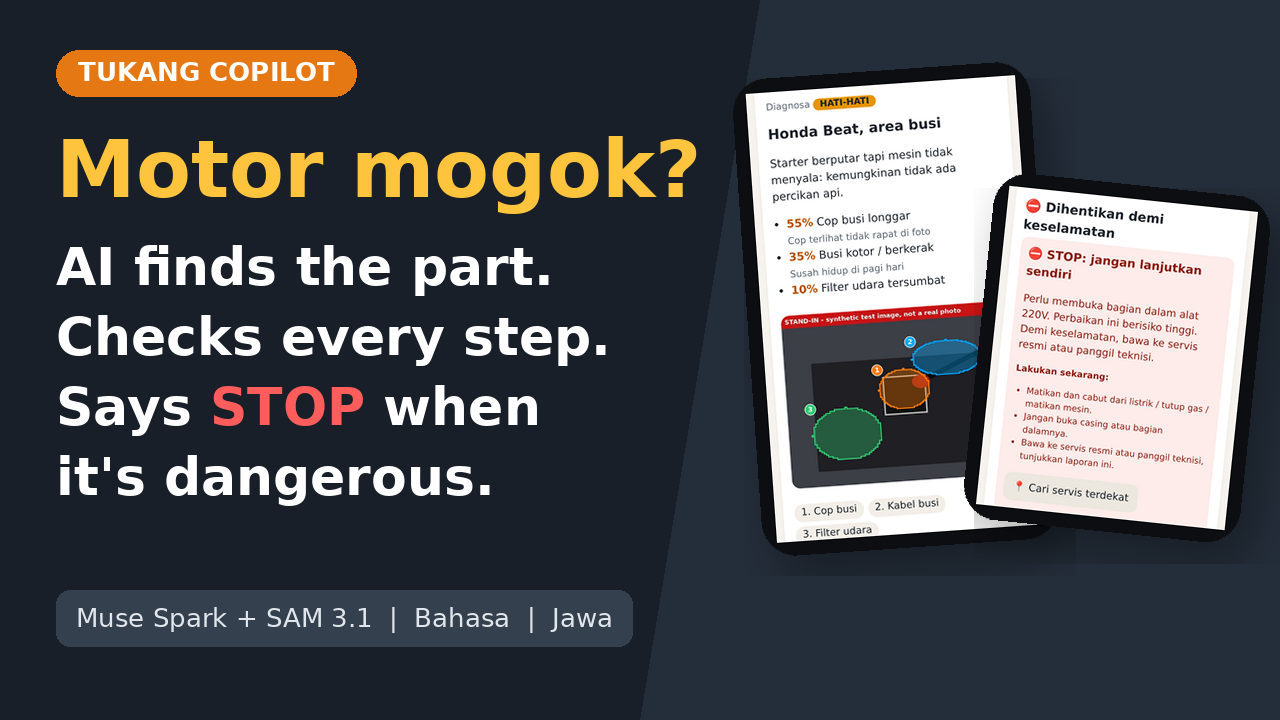
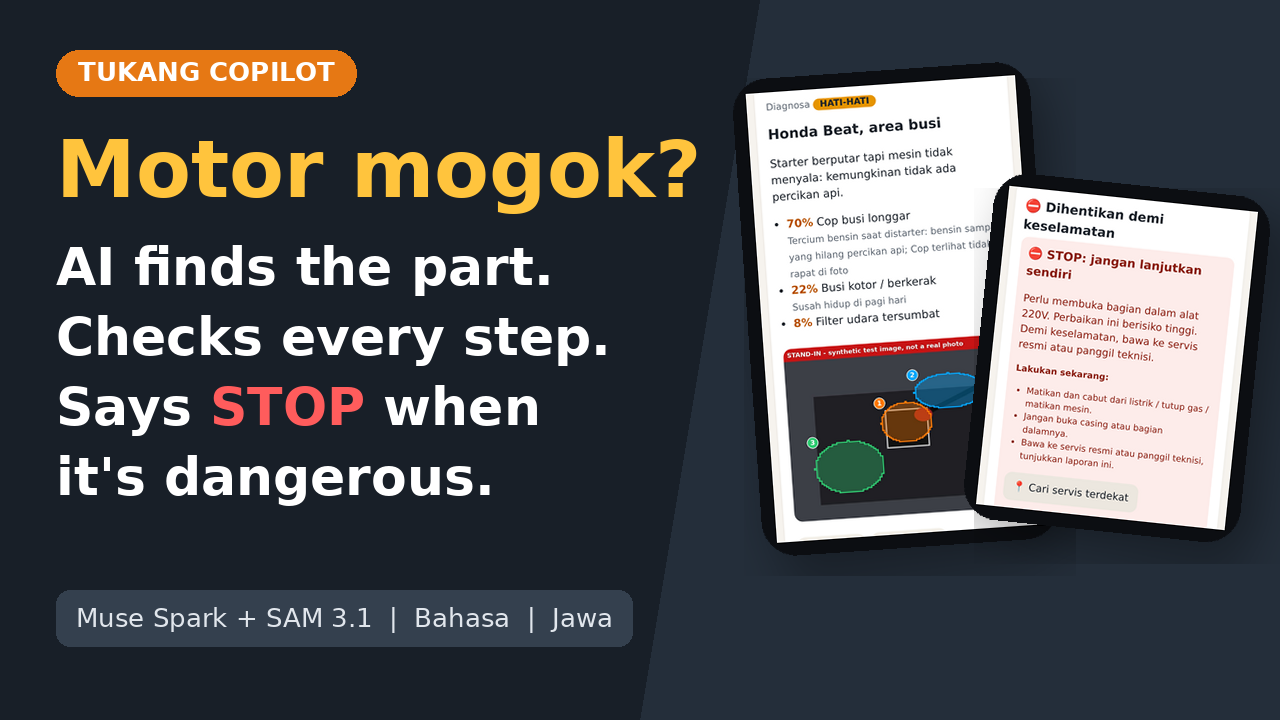
Demo captions: 139 million motorbikes (BPS 2024), no all-caps words; video, X clip, diagrams and thumbnail re-made

Changed region(s): [[0.5938, 0.3056, 0.7812, 0.7639]]

diff --git a/scripts/make_demo_assets.py b/scripts/make_demo_assets.py
@@ -1,4 +1,4 @@
-"""Demo assets from the REAL app running in demo (mock) mode: screenshots, captions, voice-over, a 2-3 min video.
+"""Demo assets from the real app running in demo (mock) mode: screenshots, captions, voice-over, a 2-3 min video.
 
     python scripts/make_demo_assets.py shots     # Playwright drives the phone UI -> docs/demo/screenshots/*.png (+ wa)
     python scripts/make_demo_assets.py wa        # only the WhatsApp simulator shots -> docs/demo/screenshots/30_whatsapp_*.png
@@ -8,7 +8,7 @@
     python scripts/make_demo_assets.py all
 
 Everything shown is the app built during the hackathon, in demo mode, with labelled stand-in photos.
-The video says so on screen. Malik's real-phone video (docs/DEMO_SCRIPT.md) replaces it when recorded.
+The video says so on screen. My own real-phone video (docs/DEMO_SCRIPT.md) replaces it once I record it.
 Chromium: PLAYWRIGHT_CHROMIUM, system chromium, or `python -m playwright install chromium`.
 """
 from __future__ import annotations
@@ -50,7 +50,7 @@ def font(size: int, bold: bool = True) -> ImageFont.FreeTypeFont | ImageFont.Ima
     return ImageFont.load_default()
 
 
-# ---------------------------------------------------------------- scenes (the script)
+# --- scenes (the script)
 @dataclass
 class Scene:
     key: str
@@ -64,11 +64,11 @@ WA_LABELS = ["Cause on your photo", "Tap a step button", "Gas leak: red stop"]
 HACKATHON_LINE = "Built during the Meta AI Developer Hackathon, Oct 26 to Nov 4, 2026 (first commit Oct 30)"
 
 SCENES: list[Scene] = [
-    # v1.25: 3-second hook title card (silent), then the story. Captions of the voice-over are burned in (English).
+    # 3-second silent title card, then the story. The voice-over captions are burned in (English).
     Scene("title", "title:Fix it yourself, safely. In Javanese.|" + HACKATHON_LINE,
           "Tukang Copilot · Muse Spark + SAM 3.1 + Muse Image", "", 3),
     Scene("hook", "title:Motor mogok. Bengkelnya tutup.|Bike won't start. The repair shop is closed.",
-          "Indonesia runs on ~130 million motorbikes, water pumps and rice cookers.",
+          "139 million motorbikes in Indonesia (BPS 2024), plus water pumps.",
           "In Indonesia, a small fault on a motorbike or a water pump can cost a day's wage. "
           "Repair videos can't see your problem, and they're not in your language.", 7),
     Scene("intro", "01_home", "Photo + voice in Bahasa, Javanese or English. No photo? ▶ 1-tap demo.",
@@ -76,11 +76,11 @@ SCENES: list[Scene] = [
     Scene("progress", "02_progress", "Results stream in as each Meta model finishes: what it saw, SAM 3.1's outlines, the likely cause.",
           "You watch the agent work: as each stage finishes, its result appears. What Muse Spark saw, "
           "the parts SAM 3.1 outlined, then the likely cause.", 6),
-    Scene("question", "03_question", "Unsure? It asks ONE question instead of guessing.",
+    Scene("question", "03_question", "Unsure? It asks one question instead of guessing.",
           "When the evidence is ambiguous, it asks one short question instead of guessing.", 4),
     Scene("diagnosis", "04_diagnosis", "Likely causes with confidence, safety level, tools, time, cost vs bengkel price.",
           "Then the diagnosis: likely causes with confidence, a safety level, tools, time, and the parts cost against the repair-shop price.", 6),
-    Scene("parts", "05_parts", "SAM 3.1 masks the real parts on YOUR photo, numbered.",
+    Scene("parts", "05_parts", "SAM 3.1 masks the real parts on your own photo, numbered.",
           "The parts are masked and numbered on your own photo by SAM 3.1, not a generic diagram.", 5),
     Scene("preflight", "15_preflight", "Safety first: the steps stay locked until every check is ticked.",
           "Before step one, a short safety checklist. The steps stay locked until you tick every item.", 5),
@@ -100,15 +100,13 @@ SCENES: list[Scene] = [
           "When a photo can't show a step, Muse Image draws a diagram and Muse Spark checks it. This one is a demo stand-in.", 5),
     Scene("agent", "23_agent_log", "“What the AI did”: every decision, the model that made it, and why it asked.",
           "Every decision is on screen: what it saw, why it asked, each photo check, each re-plan, and which Meta model did it.", 6),
-    # v1.25: "jump" and "pdf" scenes dropped to make room for the title card and the Muse Image diagram (cut stays under 3:00)
     Scene("handoff", "18_handoff", "Hand-off to a bengkel: WhatsApp summary, nearest workshop, PDF with a mechanic brief.",
           "And when it's a job for a pro, one tap hands it off: a WhatsApp summary of what was found and tried, "
           "a search for the nearest bengkel, and a PDF with a brief for the mechanic.", 8),
-    Scene("rice", "11_rice_stop", "RED STOP: opening 220 V internals → take it to a service centre.",
+    Scene("rice", "11_rice_stop", "Red stop: opening 220 V internals → take it to a service centre.",
           "It also knows when to say no. A rice cooker that won't heat would mean opening 220 volt internals, "
           "so the safety gate stops the guidance.", 7),
-    # v1.22: the stop-PDF scene was dropped to make room for the agent log and keep the cut under 3:00
-    # v1.27: the "share" and "lang" scenes were dropped for the WhatsApp scene (Javanese is now shown in WhatsApp; cut stays under 3:00)
+    # no share, language or stop-PDF scenes: the cut has to stay under 3:00, and WhatsApp shows the Javanese
     Scene("wa", "wa:30_whatsapp_jv_diagnosis,30_whatsapp_jv_steps,30_whatsapp_jv_redstop",
           "Also works in WhatsApp, in Basa Jawa. Same agent, same safety gate.",
           "It also works in WhatsApp, in Javanese. Send a photo, and the same agent replies with the marked photo, "
@@ -125,7 +123,7 @@ SCENES: list[Scene] = [
 ]
 
 
-# ---------------------------------------------------------------- screenshots
+# --- screenshots
 def _server() -> tuple[str, Any]:
     os.environ.setdefault("MOCK", "1")
     os.environ.setdefault("NARRATION_VOICE", "0")
@@ -205,7 +203,7 @@ def shots() -> None:
         pg.evaluate("document.activeElement && document.activeElement.blur(); window.scrollTo(0, 0)")
         snap("01_home")
         pg.click("#goBtn"); pg.wait_for_selector("#progress:not(.hidden)")
-        # v1.23: partial results stream in (demo pacing MOCK_PACE holds each finished stage on screen)
+        # partial results stream in (MOCK_PACE holds each finished stage on screen)
         pg.wait_for_selector("#lf-segment img", timeout=30000)
         pg.wait_for_function("document.querySelector('#lf-segment img').naturalWidth > 0", timeout=10000)
         pg.evaluate("document.querySelector('#stageList').scrollIntoView({block: 'start'}); window.scrollBy(0, -110)")
@@ -226,7 +224,7 @@ def shots() -> None:
         pg.wait_for_function("!document.querySelector('#checkResult').textContent.includes('…')", timeout=20000)
         pg.locator("#checkResult").scroll_into_view_if_needed(); snap("08_check_pass")
         pg.wait_for_function("document.querySelector('#stepNo').textContent.trim() === '2'", timeout=10000)  # auto-advanced
-        pg.locator("#agent .agGo", has_text="Langkah 1 dicek").first.click()          # v1.23: tap a log line → back to that step
+        pg.locator("#agent .agGo", has_text="Langkah 1 dicek").first.click()          # tap a log line → back to that step
         pg.wait_for_selector("#stepCard.flash"); pg.wait_for_timeout(900)
         pg.evaluate("window.scrollBy(0, -40)"); snap("24_agent_jump")
         pg.check("#handsFree"); pg.wait_for_selector("#voiceBar:not(.hidden)", timeout=5000); pg.wait_for_timeout(600)
@@ -235,9 +233,9 @@ def shots() -> None:
         pg.fill("#stuckText", "Sudah dicoba, mesin tetap tidak nyala."); pg.click("#stuckBtn")
         pg.wait_for_function("document.querySelector('#stuckMsg').textContent.length > 3 && !document.querySelector('#stuckBtn').disabled",
                              timeout=20000); pg.wait_for_timeout(600)
-        pg.wait_for_selector("#planBanner:not(.hidden)"); pg.evaluate("window.scrollTo(0, 0)"); snap("09_replan")  # v1.24: re-plan banner + tried cause
+        pg.wait_for_selector("#planBanner:not(.hidden)"); pg.evaluate("window.scrollTo(0, 0)"); snap("09_replan")  # re-plan banner + tried cause
         pg.evaluate("document.querySelector('#agent').scrollIntoView({block: 'start'}); window.scrollBy(0, -70)"); snap("23_agent_log")
-        # v1.25: the plan-2 step that needs a drawing (Muse Image in live mode; a labelled stand-in drawing in demo mode)
+        # the plan-2 step that needs a drawing (Muse Image in live mode; a labelled stand-in drawing in demo mode)
         tick_preflight()
         for _ in range(6):
             if "diagram" in (pg.get_attribute("#stepImg", "src") or "") and pg.is_visible("#stepImg"):
@@ -275,7 +273,7 @@ def shots() -> None:
         # safety stop with PDF + hand-off
         go_sample("rice"); pg.wait_for_selector("#stopBox:not(.hidden)", timeout=30000)
         pg.wait_for_selector("#stopHandoff:not(.hidden)", timeout=10000)
-        pg.evaluate("window.scrollTo(0, 0)"); snap("11_rice_stop")  # v1.24: the STOP card sits under the "Stopped for your safety" heading
+        pg.evaluate("window.scrollTo(0, 0)"); snap("11_rice_stop")  # the STOP card sits under the "Stopped for your safety" heading
         pg.evaluate("document.querySelector('#stopHandoff').scrollIntoView({block: 'end'}); window.scrollBy(0, 40)"); snap("22_stop_handoff")
         sid = pg.evaluate("S && S.id")
         pdf = Path(tempfile.mkdtemp()) / "stop.pdf"
@@ -291,11 +289,11 @@ def shots() -> None:
         settings.use_open_weights, settings.baseten_api_key = True, "stand-in-not-a-key"
         pg.goto(base + "/"); pg.select_option("#lang", "en"); pg.wait_for_selector("#owBadge:not(.hidden)", timeout=5000); snap("21_open_weights")
         settings.use_open_weights, settings.baseten_api_key = False, ""
-        # v1.24 recorded demo: what a judge sees when the server sleeps (forced here with ?replay=1)
+        # recorded demo: what a visitor sees when the server sleeps (forced here with ?replay=1)
         pg.goto(base + "/?replay=1"); pg.select_option("#lang", "en"); pg.click("#demoBtn")
         pg.wait_for_selector("#question:not(.hidden)", timeout=20000); pg.click('#quickAns button[data-q="qNo"]')
         pg.wait_for_selector("#result:not(.hidden)", timeout=20000); pg.evaluate("window.scrollTo(0, 0)"); snap("27_recorded_demo")
-        # v1.25 laptop view: phone frame + side panel (QR code, 1-tap demo, language switch)
+        # laptop view: phone frame + side panel (QR code, 1-tap demo, language switch)
         lap = b.new_page(viewport={"width": 1280, "height": 800})
         lap.goto(base + "/"); lap.select_option("#lang", "en"); lap.wait_for_selector("#qrBox svg", timeout=5000); lap.wait_for_timeout(400)
         lap.screenshot(path=str(SHOTS / "29_laptop.png")); print("shot 29_laptop", flush=True)
@@ -304,14 +302,14 @@ def shots() -> None:
     print("screenshots ->", SHOTS, sorted(p.name for p in SHOTS.glob("*.png")))
 
 
-# ---------------------------------------------------------------- WhatsApp simulator (v1.27)
+# --- WhatsApp simulator
 WA_SHOTS = ["30_whatsapp_jv_diagnosis", "30_whatsapp_jv_steps", "30_whatsapp_jv_redstop", "30_whatsapp_en_check", "30_whatsapp_en_pdf"]
 
 
 def wa_shots() -> None:
     """The WhatsApp simulator page (/wa, demo mode): the same handler as the real Cloud API webhook, so these show what a
     WhatsApp chat gets. Javanese: photo in, marked photo + diagnosis, step buttons, red stop; English: a step check and
-    the PDF report. Not a real WhatsApp number (that waits on Malik's Meta setup, docs/WHATSAPP.md)."""
+    the PDF report. Not a real WhatsApp number (that waits on my Meta setup, docs/WHATSAPP.md)."""
     from playwright.sync_api import sync_playwright
 
     SHOTS.mkdir(parents=True, exist_ok=True)
@@ -359,7 +357,7 @@ def wa_shots() -> None:
     srv.should_exit = True
 
 
-# ---------------------------------------------------------------- architecture diagram
+# --- architecture diagram
 def diagram() -> None:
     im = Image.new("RGB", (W, H), BG); d = ImageDraw.Draw(im)
     d.text((80, 50), "Tukang Copilot: one agent loop, five Meta models", fill=INK, font=font(52))
@@ -372,7 +370,7 @@ def diagram() -> None:
         ("Diagnose", "Muse Spark 1.3\nor Muse Spark Open*", (1440, 230), (255, 228, 204)),
         ("Safety gate", "3 layers in code\nred = STOP + pro", (1440, 560), (255, 210, 205)),
         ("Plan", "Muse Spark → steps\nwith expected state", (1100, 560), (255, 228, 204)),
-        ("Illustrate", "Muse Image edit\nof YOUR photo", (760, 560), (225, 214, 245)),
+        ("Illustrate", "Muse Image edit\nof your photo", (760, 560), (225, 214, 245)),
         ("Verify step", "new photo → Spark\n✓ pass / ⚠ correction", (420, 560), (210, 240, 220)),
         ("Report", "PDF · bengkel\nhand-off · garage", (80, 560), (230, 230, 230)),
     ]
@@ -403,7 +401,7 @@ def diagram() -> None:
     print("diagram ->", ARCH)
 
 
-# ---------------------------------------------------------------- voice-over
+# --- voice-over
 def voice() -> None:
     """edge-tts (Microsoft neural voices, free, needs internet). Set EDGE_TTS_PROXY if the network needs a proxy."""
     import edge_tts
@@ -434,7 +432,7 @@ def _dur(p: Path) -> float:
     return float(json.loads(r.stdout)["format"]["duration"])
 
 
-# ---------------------------------------------------------------- frames + video
+# --- frames + video
 def _wrap(d: ImageDraw.ImageDraw, text: str, f: Any, width: int) -> list[str]:
     lines: list[str] = []
     for para in text.split("\n"):
@@ -470,7 +468,7 @@ def _frame(sc: Scene, vertical: bool = False, subtitle: str = "") -> Image.Image
             im.paste(a.resize((aw, int(a.height * aw / a.width)), Image.Resampling.LANCZOS), ((fw - aw) // 2, 0))
         else:
             im.paste(a.resize((fw, int(a.height * fw / a.width))), (0, 0))
-    elif sc.image.startswith("wa:"):  # v1.27: three WhatsApp simulator screens side by side, each with a short label
+    elif sc.image.startswith("wa:"):  # three WhatsApp simulator screens side by side, each with a short label
         names = sc.image[3:].split(",")
         ph = 692 if vertical else 640
         pw_ = int(780 * ph / 1688)
@@ -642,15 +640,15 @@ def video() -> None:
 
 def vertical(work: Path, has_voice: bool) -> None:
     """~45 s 9:16 clip for X (silent, captions only): 3 s title card, then hook, streaming progress, parts, live camera,
-    check, rice stop, WhatsApp (v1.27, in place of the Muse Image diagram), models, close. Each card has the Indonesian line plus an English caption."""
-    keys = ["title", "hook", "progress", "parts", "live", "check_pass", "rice", "wa", "arch", "close"]  # v1.27: wa replaced diagram
-    short = {"title": "Tukang Copilot", "hook": "Motor mogok, bengkel tutup? Foto + ngomong.", "parts": "SAM 3.1 menandai part di foto KAMU.",
+    check, rice stop, WhatsApp (in place of the Muse Image diagram), models, close. Each card has the Indonesian line plus an English caption."""
+    keys = ["title", "hook", "progress", "parts", "live", "check_pass", "rice", "wa", "arch", "close"]
+    short = {"title": "Tukang Copilot", "hook": "Motor mogok, bengkel tutup? Foto + ngomong.", "parts": "SAM 3.1 menandai part di foto kamu.",
              "live": "Kamera langsung: part yang harus dipegang ditandai (demo).", "check_pass": "Tiap langkah dicek kamera ✓",
              "diagram": "Foto tidak cukup? Muse Image menggambar diagram (demo: gambar pengganti).",
              "rice": "Bahaya? Dia bilang STOP.", "wa": "Juga lewat WhatsApp, dalam Basa Jawa.", "progress": "Lihat AI bekerja: hasil muncul tiap tahap.",
              "arch": "Built with Meta Muse Spark + SAM 3.1 + Muse Image", "close": "Tukang Copilot · open source · mode demo"}
     english = {"title": "", "hook": "Bike won't start and the shop is closed? Snap it and say what's wrong.",
-               "parts": "SAM 3.1 marks the parts on YOUR photo.", "live": "Live camera: the part to touch is outlined (demo).",
+               "parts": "SAM 3.1 marks the parts on your photo.", "live": "Live camera: the part to touch is outlined (demo).",
                "check_pass": "Every step is checked by the camera.", "diagram": "Photo not enough? Muse Image draws a diagram (demo stand-in).",
                "rice": "Dangerous? It says STOP and hands you to a pro.", "wa": "Also works in WhatsApp (simulator, demo mode).", "progress": "Watch the AI work: results appear stage by stage.",
                "arch": "Voice Transcribe · Muse Spark · SAM 3.1 · Muse Image", "close": "Fix it yourself, safely. In Javanese."}

diff --git a/docs/launch/make_launch_assets.py b/docs/launch/make_launch_assets.py
@@ -148,7 +148,7 @@ def architecture() -> Path:
     stages = [
         ("1 Listen", "Voice Transcribe  |  Spark 1.2 audio (Jawa)", BLUE),
         ("2 Look", "Muse Spark 1.3 vision: parts + boxes", ORANGE),
-        ("3 Find parts", "SAM 3.1 masks on YOUR photo", GREEN),
+        ("3 Find parts", "SAM 3.1 masks on your photo", GREEN),
         ("4 Diagnose + plan", "Muse Spark 1.3  or  Spark Open", ORANGE),
         ("5 Illustrate", "Muse Image edits the photo", PURPLE),
         ("6 Verify step", "Muse Spark checks a new photo", ORANGE),

diff --git a/docs/demo/README.md b/docs/demo/README.md
@@ -1,21 +1,26 @@
 # Demo assets (generated from the real app, demo mode)
 
-All made by `python scripts/make_demo_assets.py all` from the app built during the hackathon, running in
-demo (mock) mode with the labelled stand-in photos in `api/tests/fixtures/`. Every frame says "demo mode ·
-labelled stand-in photos". The live camera guide shots use Chromium's fake camera playing a stand-in photo (the
-overlay boxes are the demo-mode tracker, not a live SAM 3.1 call); the hands-free shot uses a silent stand-in for the
-browser's speech recogniser (headless Chromium has none); the open-weights badge shot shows what the header looks like with
-`USE_OPEN_WEIGHTS=1` + a Baseten key (answers are still demo answers). Malik's real-phone recording (docs/DEMO_SCRIPT.md) should replace the main video
-for the submission; this one is the backup and the source of screenshots.
+`python scripts/make_demo_assets.py all` makes everything here from the app I built during the hackathon, running in
+demo (mock) mode with the labelled stand-in photos in `api/tests/fixtures/`. Every frame says "demo mode · labelled
+stand-in photos".
+
+A few shots need a note. The live camera guide shots use Chromium's fake camera playing a stand-in photo, so the overlay
+boxes come from the demo-mode tracker and not from a live SAM 3.1 call. The hands-free shot uses a silent stand-in for
+the browser's speech recogniser, because headless Chromium doesn't have one. The open-weights badge shot shows what the
+header looks like with `USE_OPEN_WEIGHTS=1` + a Baseten key, but the answers are still demo answers. My real-phone
+recording (docs/DEMO_SCRIPT.md) should replace the main video for the submission; this one is the backup and the source
+of the screenshots.
 
 | File | What |
 |---|---|
-| `tukang-copilot-demo.mp4` | 2:55 (175.7 s, v1.27 cut: the share-card and Javanese-UI scenes made room for a 12 s WhatsApp scene in Basa Jawa), 1920×1080, H.264 + AAC, English voice-over (edge-tts `en-US-AndrewNeural`), English captions burned in. 21 scenes (start times in `TIMESTAMPS.txt`) opening with a 3 s hook title card with the hackathon dates, incl. streaming progress, safety tick list, live camera guide, step checks, hands-free, re-plan, Muse Image diagram step (stand-in drawing), agent log, bengkel hand-off, rice-cooker STOP, WhatsApp in Basa Jawa, open weights, architecture |
-| `TIMESTAMPS.txt` | Scene start times (mm:ss) of the main video; YouTube chapters in docs/launch/YOUTUBE.md follow it |
+| `tukang-copilot-demo.mp4` | 2:55 (175.7 s, v1.27 cut: the share-card and Javanese-UI scenes made room for a 12 s WhatsApp scene in Basa Jawa), 1920×1080, H.264 + AAC, English voice-over (edge-tts `en-US-AndrewNeural`), English captions burned in. 21 scenes (start times in `TIMESTAMPS.txt`), opening with a 3 s hook title card with the hackathon dates. Covers streaming progress, the safety tick list, the live camera guide, step checks, hands-free, re-plan, the Muse Image diagram step (stand-in drawing), the agent log, the bengkel hand-off, the rice-cooker STOP, WhatsApp in Basa Jawa, open weights and the architecture |
+| `TIMESTAMPS.txt` | Scene start times (mm:ss) of the main video; the YouTube chapters in docs/launch/YOUTUBE.md follow it |
 | `tukang-copilot-demo.en.srt` | Captions (the voice-over text) as a separate subtitle file for YouTube |
 | `tukang-copilot-x-vertical.mp4` | 43.5 s, 1080×1920, silent with Bahasa captions, for the X post (hook, streaming progress, parts, live camera, check, STOP, WhatsApp in Basa Jawa, models, close) |
-| `screenshots/01…30_*.png` | 34 shots. 30 = the WhatsApp simulator (`/wa`, demo mode, same handler as the real webhook): `30_whatsapp_jv_diagnosis` (marked photo + likely cause), `30_whatsapp_jv_steps` (step with Done / Problem / Stop buttons), `30_whatsapp_jv_redstop` (gas smell: red stop, no steps), `30_whatsapp_en_check` (camera check passed, step 2), `30_whatsapp_en_pdf` (Stop: workshop link + PDF report). 23 = agent log, 24 = tap a log line → that step, 25 = PDF agent-log page, 26 = share card (link preview, 1200×630), 27 = recorded demo, 28 = Muse Image diagram step (stand-in drawing), 29 = laptop phone-frame view with QR code (1280×800).  Phone screenshots (390×844 @2x) of every stage: home, progress, follow-up question, diagnosis, SAM parts, step, ⚠ check, ✓ check, re-plan, pump, rice-cooker STOP, report/PDF, English, Basa Jawa + garage, **15** safety tick list, **16** live camera guide, **17** hands-free listening, **18** bengkel hand-off, **19** stop report PDF page, **20** Javanese result, **21** open-weights badge, **22** stop card hand-off |
+| `screenshots/01…30_*.png` | 34 shots. Phone screenshots (390×844 @2x) of every stage: home, progress, follow-up question, diagnosis, SAM parts, step, ⚠ check, ✓ check, re-plan, pump, rice-cooker STOP, report/PDF, English, Basa Jawa + garage, 15 safety tick list, 16 live camera guide, 17 hands-free listening, 18 bengkel hand-off, 19 stop report PDF page, 20 Javanese result, 21 open-weights badge, 22 stop card hand-off. 23 = agent log, 24 = tap a log line → that step, 25 = PDF agent-log page, 26 = share card (link preview, 1200×630), 27 = recorded demo, 28 = Muse Image diagram step (stand-in drawing), 29 = laptop phone-frame view with QR code (1280×800). 30 = the WhatsApp simulator (`/wa`, demo mode, same handler as the real webhook): `30_whatsapp_jv_diagnosis` (marked photo + likely cause), `30_whatsapp_jv_steps` (step with Done / Problem / Stop buttons), `30_whatsapp_jv_redstop` (gas smell: red stop, no steps), `30_whatsapp_en_check` (camera check passed, step 2), `30_whatsapp_en_pdf` (Stop: workshop link + PDF report) |
 | `voice/*.mp3` | One voice-over clip per scene (inputs to the video) |
 | `../img/architecture.png` | Architecture diagram used in the video and README |
 
-Regenerate: `shots` (needs Chromium; also runs `wa`, the WhatsApp simulator shots) → `diagram` → `voice` (needs internet; goes direct unless `EDGE_TTS_PROXY` is set; delete a scene's mp3 to re-record it) → `video` (needs ffmpeg; segments cached in `$TMPDIR/tukang-video`, delete it after changing screenshots).
+To regenerate, run the steps in this order: `shots` (needs Chromium; also runs `wa`, the WhatsApp simulator shots) →
+`diagram` → `voice` (needs internet; goes direct unless `EDGE_TTS_PROXY` is set; delete a scene's mp3 to re-record it) →
+`video` (needs ffmpeg; segments are cached in `$TMPDIR/tukang-video`, so delete that folder after changing screenshots).
